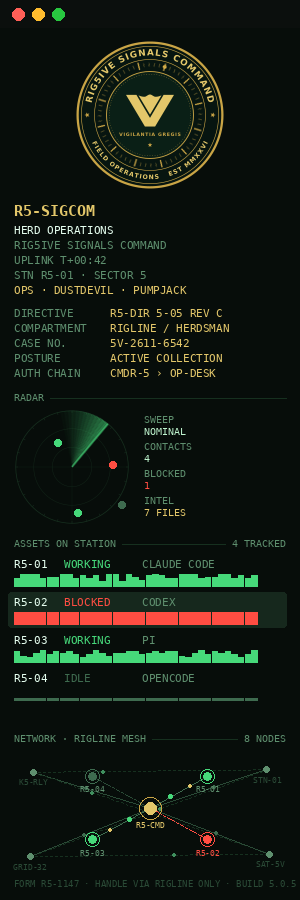
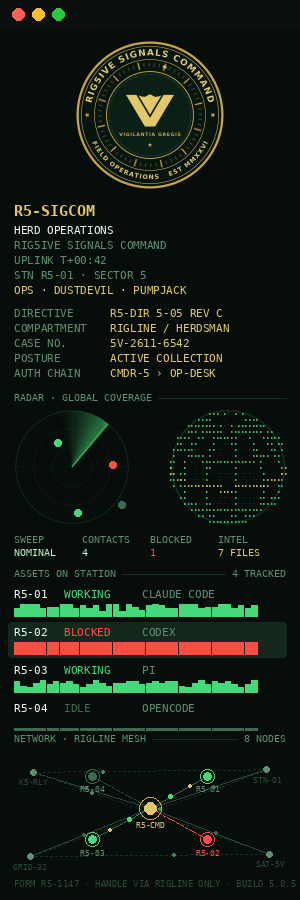
Add a spinning wireframe globe to the radar section
Claude-Session: https://claude.ai/code/session_01V3hhfSeK7Me84W8rW5UaKe

diff --git a/mods/r5-sigcom/main.js b/mods/r5-sigcom/main.js
@@ -14,7 +14,7 @@ import {
 
 const ART = "mods/r5-sigcom/";
 const MONO = "JetBrains Mono";
-const BUILD = "5.1.9";
+const BUILD = "5.2.0";
 const STATE = "r5.state";
 const LOG = "r5.log";
 
@@ -242,6 +242,37 @@ function meterFrames(status, rows, seed) {
     const floor = (rows - 1 - r) * 8;
     return lv.map((v) => { const l = Math.max(0, Math.min(8, v - floor)); return l === 0 ? "  " : SPARK[l - 1].repeat(2); });
   });
+}
+
+// A wireframe globe as dot-matrix text: one string per row per frame, in three
+// layers (far side, near side, equator) that share the frames clock and stay in
+// step. Lines every 30° of longitude and latitude, tilted 23° toward the viewer.
+const GLOBE_N = 15; // frames per 30° step; the grid repeats every 30°, so this loops seamlessly
+function globeFrames(cols, rows) {
+  const layers = [0, 1, 2].map(() => Array.from({ length: rows }, () => []));
+  const tilt = (23 * Math.PI) / 180, ct = Math.cos(tilt), st = Math.sin(tilt);
+  const rx = (cols - 1) / 2, ry = (rows - 1) / 2;
+  for (let f = 0; f < GLOBE_N; f++) {
+    const rot = (f / GLOBE_N) * (Math.PI / 6);
+    const g = [0, 1, 2].map(() => Array.from({ length: rows }, () => Array(cols).fill(" ")));
+    const plot = (lat, lon, eq) => {
+      const l = lon + rot;
+      const x = Math.cos(lat) * Math.sin(l), y = Math.sin(lat), z = Math.cos(lat) * Math.cos(l);
+      const y2 = y * ct - z * st, z2 = y * st + z * ct;
+      const c = Math.round(rx + x * rx), r = Math.round(ry - y2 * ry);
+      if (r < 0 || r >= rows || c < 0 || c >= cols) return;
+      if (z2 >= 0) { g[eq ? 2 : 1][r][c] = "•"; g[0][r][c] = " "; }
+      else if (g[1][r][c] === " " && g[2][r][c] === " ") g[0][r][c] = "·";
+    };
+    const D = Math.PI / 180;
+    for (let m = 0; m < 360; m += 30) for (let a = -72; a <= 72; a += 2) plot(a * D, m * D, false);
+    for (const p of [-60, -30, 30, 60]) for (let a = 0; a < 360; a += 2) plot(p * D, a * D, false);
+    for (let a = 0; a < 360; a += 1.5) plot(0, a * D, true);
+    // a near-side cell beats the far side drawn earlier in the same cell
+    for (let r = 0; r < rows; r++) for (let c = 0; c < cols; c++) if (g[1][r][c] !== " " || g[2][r][c] !== " ") g[0][r][c] = " ";
+    for (let k = 0; k < 3; k++) for (let r = 0; r < rows; r++) layers[k][r].push(g[k][r].join(""));
+  }
+  return layers;
 }
 
 function sparkFrames(seed, len) {
@@ -788,7 +819,7 @@ export default class R5Sigcom extends View {
       .child(div().flex_1().truncate().text_color(dormant ? C.goldDim : C.gold2).child(v))));
 
     const visible = dormant || (boot && ph < 5) ? [] : list;
-    const R = compact ? 116 : 140;
+    const R = Math.max(96, Math.min(compact ? 116 : 128, Math.floor((this.size.width - 28 - 12) / 2)));
     const radar = div().relative().w(R).h(R).flex_shrink_0()
       .child(svg(ART + "radar-grid.svg").absolute().left(0).top(0).w(R).h(R).text_color(dormant ? C.ghost : C.rule))
       .child(svg(ART + "radar-sweep.svg").absolute().left(0).top(0).w(R).h(R)
@@ -804,17 +835,26 @@ export default class R5Sigcom extends View {
           .bg(STATUS_COLOR[a.status] || C.olive)
           .loop("opacity", a.status === "blocked" ? { from: 0.25, to: 1, period: 500 } : { from: 0.35, to: 1, period: 4000 });
       }));
-    const sweepLabel = v_flex().gap(2).text_size(10)
-      .child(div().text_color(C.dim).child("SWEEP"))
-      .child(div().text_color(dormant ? C.faint : C.text).child(dormant ? "LOW" : boot ? "FAST" : "NOMINAL"))
-      .child(div().mt(6).text_color(C.dim).child("CONTACTS"))
-      .child(div().text_color(dormant ? C.faint : C.text).child(String(visible.length)))
-      .child(div().mt(6).text_color(C.dim).child("BLOCKED"))
-      .child(div().text_color(visible.some((a) => a.status === "blocked") ? C.red : dormant ? C.faint : C.text)
-        .child(String(visible.filter((a) => a.status === "blocked").length)))
-      .child(div().mt(6).text_color(C.dim).child("INTEL"))
-      .child(div().text_color(dormant ? C.faint : C.gold2)
-        .child(dormant ? "\u2014" : `${Object.values(this.intelCount).reduce((n, v) => n + v, 0)} FILES`));
+    const anyBlocked = visible.some((a) => a.status === "blocked");
+    const stat = (k, v, col) => v_flex().gap(1).child(div().text_color(C.dim).child(k)).child(div().text_color(col).child(v));
+    const sweepLabel = h_flex().w_full().justify_between().text_size(10)
+      .child(stat("SWEEP", dormant ? "LOW" : boot ? "FAST" : "NOMINAL", dormant ? C.faint : C.text))
+      .child(stat("CONTACTS", String(visible.length), dormant ? C.faint : C.text))
+      .child(stat("BLOCKED", String(visible.filter((a) => a.status === "blocked").length), anyBlocked ? C.red : dormant ? C.faint : C.text))
+      .child(stat("INTEL", dormant ? "\u2014" : `${Object.values(this.intelCount).reduce((n, v) => n + v, 0)} FILES`, dormant ? C.faint : C.gold2));
+
+    // Spinning wireframe globe beside the scope. 6px mono cells: 3.6px wide, 6px tall.
+    const gCols = Math.floor(R / 3.6) | 1, gRows = Math.floor(R / 6) | 1;
+    const gKey = "globe" + gCols + "x" + gRows;
+    const gl = this.cache[gKey] || (this.cache[gKey] = globeFrames(gCols, gRows));
+    const gMs = dormant ? 400 : boot ? 45 : 110;
+    const gCol = [dormant ? C.ghost : "#1E4A2E", dormant ? C.faint : anyBlocked ? C.red : C.green, dormant ? C.goldDim : C.gold2];
+    const gPadX = Math.floor((R - gCols * 3.6) / 2), gPadY = Math.floor((R - gRows * 6) / 2);
+    const globe = div().relative().w(R).h(R).flex_shrink_0()
+      .child(svg(ART + "globe-ring.svg").absolute().left(0).top(0).w(R).h(R).text_color(dormant ? C.ghost : C.rule))
+      .children(gl.map((rowsF, k) => v_flex().absolute().left(gPadX).top(gPadY).gap(0)
+        .children(rowsF.map((fr) => div().h(6).line_height("6px").text_size(6).font_family(MONO).whitespace_nowrap()
+          .text_color(gCol[k]).frames(fr, gMs)))));
 
     const sparkLen = Math.max(8, Math.floor((this.size.width - 44) / 6.8));  // 11px mono is ~6.6px a cell
     let assets;
@@ -862,8 +902,10 @@ export default class R5Sigcom extends View {
       .child(codeRows)
       .child(browse)
       .child(v_flex().w_full()
-        .child(rule("RADAR", null))
-        .child(h_flex().w_full().gap(14).items_center().child(radar).child(sweepLabel)))
+        .child(rule("RADAR \u00b7 GLOBAL COVERAGE", null))
+        .child(h_flex().w_full().justify_between().items_center().child(radar).child(globe))
+        .child(div().h(6))
+        .child(sweepLabel))
       .child(v_flex().w_full().flex_1().min_h(0)
         .child(rule("ASSETS ON STATION", dormant ? "NONE" : `${list.length} TRACKED`))
         .child(assets))

diff --git a/RECIPE.md b/RECIPE.md
@@ -21,9 +21,10 @@ Left to right, top to bottom:
     - Below 1150px window height it shrinks to a compact seal.
   - **Identity block:** R5-SIGCOM / HERD OPERATIONS / RIG5IVE SIGNALS COMMAND / UPLINK T+mm:ss / STN R5-01 · SECTOR 5 / OPS · two codenames.
   - **Routing card:** DIRECTIVE R5-DIR 5-05 REV C, COMPARTMENT RIGLINE / HERDSMAN, CASE NO. 5V-YYMM-NNNN, POSTURE, AUTH CHAIN CMDR-5 › OP-DESK.
-  - **Radar** (≈120px scope):
-    - A rotating sweep wedge, with one dot per agent in its status color.
-    - Beside it: SWEEP, CONTACTS, BLOCKED, INTEL (n FILES, counted from git changes).
+  - **Radar · Global coverage** (two 128px squares side by side, 116px when compact):
+    - Left: a scope with a rotating sweep wedge and one dot per agent in its status color.
+    - Right: a wireframe globe drawn as 6px dot-matrix text inside a thin ring (`globe-ring.svg`). Lines every 30° of longitude and latitude, tilted 23°. Far side `·` in `#1E4A2E`, near side `•` in `#46D97A`, equator `•` in `#E3C76A`.
+    - Under both, one row of four stats: SWEEP, CONTACTS, BLOCKED, INTEL (n FILES, counted from git changes).
   - **Assets on station:**
     - One row per agent: R5-0n, STATUS, UNIT (agent name), and a block-character activity meter under it.
     - A blocked row gets a red tinted background.
@@ -96,6 +97,7 @@ Left to right, top to bottom:
 - **Right-click a tab:** a menu with Split right, Split down, New agent in split (each installed agent), Rename, Close and More….
 - **Right-click a folder** (or the Files header): Start agent here (each installed agent; new tab, split right or split down), and Reveal in Finder.
 - **OPEN BROWSER:** if `terminal-browser` is on PATH, it opens in a right split. Otherwise a toast explains how to install it.
+- **Globe:** spins continuously; 110ms a frame when active, 45ms during boot, 400ms when dormant (dimmed). The near side turns red while any agent is blocked.
 - **Treasury:** balances drift and return to base, and the transaction log scrolls.
 - **GDP ticker:** cycles USA, CHN, DEU, JPN, IND, GBR, FRA… with ▲/▼ growth figures.
 
@@ -124,6 +126,7 @@ Left to right, top to bottom:
 - **Animation:**
   - Everything moving uses native `.frames(list, ms)`, `.loop(prop, …)` or svg `.spin(ms)`. This includes the ticker (140ms), spectrum (110–120ms), meters, treasury, boot text and hex.
   - Frames are precomputed on timers, never in `render`.
+  - The globe is 3 layers (far, near, equator) × one div per row, each `.frames(rows, ms)` over 15 precomputed frames. The grid repeats every 30°, so 15 frames of 2° loop seamlessly. All layers share the frames clock and stay in step. Cell size: 6px font, `line_height("6px")`, 3.6px wide; cols = R/3.6, rows = R/6, both odd.
   - Mesh links are drawn with `window.paint_path(PathBuilder.stroke(1).dash_array(…))`.
 - **Programs it runs:**
   - `curl` to `api.worldbank.org`: indicators NY.GDP.MKTP.CD and NY.GDP.MKTP.KD.ZG, once a day, cached in shared state. Built-in 2025 figures cover being offline.
@@ -131,7 +134,7 @@ Left to right, top to bottom:
   - `<shell> -lc "command -v terminal-browser"`.
   - `open -R` (Reveal in Finder).
   - `r5-files` also runs `sh`/`git` to list folders, like the shipped mod.
-- **Art in `mods/r5-sigcom/`:** `seal-rings.svg`, `ticks.svg`, `seal-core.svg`, `mark.svg`, `radar-grid.svg`, `radar-sweep.svg`. Spin the sweep and the outer ring.
+- **Art in `mods/r5-sigcom/`:** `seal-rings.svg`, `ticks.svg`, `seal-core.svg`, `globe-ring.svg`, `mark.svg`, `radar-grid.svg`, `radar-sweep.svg`. Spin the sweep and the outer ring.
 
 ## Watch out
 
@@ -159,5 +162,6 @@ Left to right, top to bottom:
 - Intercept lines appear for a busy background agent with secrets shown as █. Clicking INTERCEPT shows PAUSED.
 - The tab-bar Dossier button opens the right panel, and GO TO TERMINAL focuses that agent.
 - Right-clicking a tab and choosing Split right opens a split. Right-clicking a folder and starting an agent opens it in that folder.
+- The radar's globe spins, faster during boot, and its near side turns red when an agent is blocked.
 - The ticker scrolls GDP figures and the treasury balances tick.
 - `herdr-app check` passes for `r5-sigcom`, `r5-tabs` and `r5-files`.

diff --git a/README.md b/README.md
@@ -47,7 +47,11 @@ The window title and dock badge follow the OPS-CON level.
 
 **Identity block.** Agency, station designator, uplink clock (T+ since boot) and the active operation codenames, plus a faux routing card: directive, compartment, case number, posture and authorization chain.
 
-**Radar.** A sweeping scope with one contact per agent, colored by status. Beside it: sweep state, contact count, blocked count and intel files collected.
+**Radar.** A sweeping scope with one contact per agent, colored by status. Under it: sweep state, contact count, blocked count and intel files collected.
+
+**Global coverage globe.** A green wireframe globe spins beside the radar, drawn as a dot matrix: near-side grid lines bright, far side dim, equator in brass. It turns red when an agent is blocked, slows to a crawl when the platform is dormant and whips around during boot.
+
+![Spinning grid globe](docs/globe.png)
 
 **Assets on station.** Each agent gets an asset number (R5-01, R5-02, ...), its status and a live activity meter. Click an asset to open its dossier.
 
